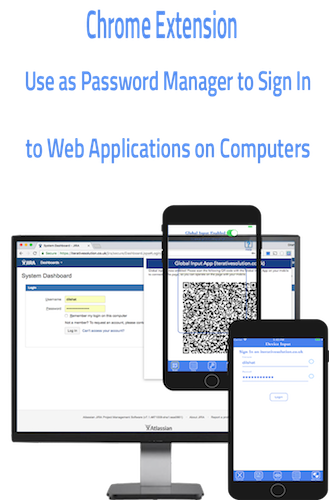
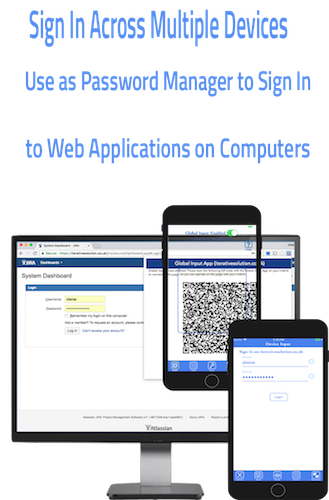
releasing

Changed region(s): [[0.0912, 0.0, 0.8815, 0.09]]

diff --git a/src/home/HomeScreen.js b/src/home/HomeScreen.js
@@ -124,6 +124,13 @@ render() {
                    buttonLabel={applicationPathConfig.formData.startButton} buttonLink={applicationPathConfig.formData.menu.link}/>
           </div>
 
+          <BookMark bookmark={applicationPathConfig.chrome.menu.bookmark}/>
+
+          <div style={styles.itemSection}>
+                <DisplayTextImage title={blockTextConfig.chrome.title}
+                   content={blockTextConfig.chrome.content} image={images.chromeExtension}
+                   mobileImage={images.mobile.chromeExtension}/>
+          </div>
 
 
 
@@ -131,31 +138,28 @@ render() {
 
 
 
-              <BookMark bookmark={applicationPathConfig.contentTransfer.menu.bookmark}/>
 
-              <div style={styles.itemSection}>
-                    <DisplayTextImage title={applicationPathConfig.contentTransfer.title}
-                       content={applicationPathConfig.contentTransfer.content} image={images.contentTransfer}
-                       mobileImage={images.mobile.contentTransfer}
-                       buttonLabel={applicationPathConfig.contentTransfer.startButton} buttonLink={applicationPathConfig.contentTransfer.menu.link}/>
-              </div>
+          <BookMark bookmark={applicationPathConfig.contentTransfer.menu.bookmark}/>
+
+          <div style={styles.itemSection}>
+                <DisplayTextImage title={applicationPathConfig.contentTransfer.title}
+
+                   content={applicationPathConfig.contentTransfer.content} image={images.contentTransfer}
+                   mobileImage={images.mobile.contentTransfer}
+                   buttonLabel={applicationPathConfig.contentTransfer.startButton} buttonLink={applicationPathConfig.contentTransfer.menu.link}/>
+          </div>
+
 
 
               <BookMark bookmark={applicationPathConfig.qrPrinting.menu.bookmark}/>
 
               <div style={styles.itemSection}>
-                    <DisplayTextImage title={applicationPathConfig.qrPrinting.title} reverse={true}
+                    <DisplayTextImage title={applicationPathConfig.qrPrinting.title}
                        content={applicationPathConfig.qrPrinting.content} image={images.encryptedQRCode}
                        mobileImage={images.mobile.encryptedQRCode}
+                       reverse={true}
                        buttonLabel={applicationPathConfig.qrPrinting.startButton} buttonLink={applicationPathConfig.qrPrinting.menu.link}/>
-              </div>
 
-              <BookMark bookmark={applicationPathConfig.chrome.menu.bookmark}/>
-
-              <div style={styles.itemSection}>
-                    <DisplayTextImage title={blockTextConfig.chrome.title}
-                       content={blockTextConfig.chrome.content} image={images.chromeExtension}
-                       mobileImage={images.mobile.chromeExtension}/>
               </div>
 
 

diff --git a/src/page-templates/configs/chromeExtensionConfig.js b/src/page-templates/configs/chromeExtensionConfig.js
@@ -1,13 +1,14 @@
 import {pagelinks} from "../../configs";
 const chromeExtensionConfig={
-  title:"Global Input Extensions",
+  title:"Sign In Across Multiple Devices",
   menu:{
      bookmark:"chromeExtension"
    },
-   content:["Global Input App allows you to use your mobile as a sign-in device with its encrypted storage and encrypted data transfer.",
-    [["You can use the the ",{type:"link", content:"Global Input JavaScript library",link:pagelinks.jslibrary.url()}, " to extend your existing web application to support Global Input App."]],
-    [["You can install the ",{type:"a", content:"Global Input WordPress Plugin ", href:"https://github.com/global-input/wordpress-login"}, " into your WordPress instance to enable your website to support Global Input App"]],
-     [["If the web application, or the website that you are visiting does not yet has the Global Input App extension, you can install the ",{type:"a",content:"Global Input Chrome Extension",href:"https://github.com/global-input/chrome-extension"}," to the Chrome browser on your computer. The extension acts as a go-between in receiving the data from your Global Input App and filling the form in the web pages."]]
+   content:["Global Input App can act as a Password Manager on your personal mobile device for signing into the web applications with Global Input App extensions.",
+           "Credentials are stored encrypted in your device’s storage only, and decrypted only when it is needed and pushed to the connected application using end-to-end encryption.",
+           [["You can install the ",{type:"a", content:"Global Input WordPress Plugin ", href:"https://github.com/global-input/wordpress-login"}, " into your WordPress instance to enable your website to support Global Input App"]],
+           [["If the web application, or the website that you are visiting does not yet has the Global Input App extension, you can install the ",{type:"a",content:"Global Input Chrome Extension",href:"https://github.com/global-input/chrome-extension"}," to the Chrome browser on your computer. The extension acts as a go-between in receiving the data from your Global Input App and filling the form in the web pages."]],
+           ["The web applications can be extended to support Global Input App using the ",{type:"link", content:"Global Input JavaScript library",link:pagelinks.jslibrary.url()}],
  ],
     install:{
                link:"https://github.com/global-input/chrome-extension",

diff --git a/src/page-templates/configs/formDataTransferConfig.js b/src/page-templates/configs/formDataTransferConfig.js
@@ -1,6 +1,6 @@
 import {pagelinks} from "../../configs";
 const formDataTransferConfig={
-  title:"Sign In Across Multiple Devices",
+  title:"Encrypted Data Storage and Encrypted Transfer",
   appSubtitle:"Form Data Transfer",
   menu:{
      link:pagelinks.samples.formData.link,
@@ -8,11 +8,10 @@ const formDataTransferConfig={
      backLink:pagelinks.samples.formData.backLink,
      bookmark:pagelinks.samples.formData.bookmark,
   },
-  content:["Global Input App can act as a Password Manager on your personal mobile device for signing into the web applications with Global Input App extensions.",
-          "Credentials are stored encrypted in your device’s storage only, and decrypted only when it is needed and pushed to the connected application using end-to-end encryption.",
-          "Global Input allows to login securely to a web application on a shared computer that is attached to a shared screen in a conference room."],
-
-
+  content:[
+           "Global Input App implements an encrypted storage in your device and data transfer between your devices using end-to-end encryption.",
+           "This can be a useful tool for IT support team. A Global Input App instance can establish an encrypted communication with another instance, and then a data item can be created/edited collaboratively using both devices.",
+           "Here you can compose a form that you would like a user to use his/her mobile to fill in the form with you colloboratively and save it on his/her mobile for later use. On your end, you can use the form data to carry out operations such as user account creation etc."],
 
 
    compose:{
@@ -71,7 +70,7 @@ const formDataTransferConfig={
     startButton:"Try It",
     cancelButton:"Back",
     backButton:"Back",
-    restartButton:"Restart",
+    restartButton:"Back",
     finishButton:"Finish",
     nextButton:"Next",
     backButton:"Back",
@@ -80,6 +79,7 @@ const formDataTransferConfig={
     unselectButton:"Unselect",
     deleteButton:"Delete",
     copyButton:"Copy",
-    backButton:"Back"
+    backButton:"Back",
+    cloneButton:"Clone This Page As Bookmarkable"
 }
 export default formDataTransferConfig;

diff --git a/src/formdata-transfer/FormDataTransfer.js b/src/formdata-transfer/FormDataTransfer.js
@@ -618,10 +618,12 @@ renderComposeForm(){
                               help={applicationPathConfig.formData.compose.folder.help}/>
 
                               <DisplayStaticContent
-                              content={applicationPathConfig.formData.compose.fields.header}/>
-
+                              content={applicationPathConfig.formData.compose.fields.header}
+                              lineStyle={styles.help}/>
+                            <div style={styles.fieldRow}>
 
                             {fields.map((formField, index)=>this.renderAField(formField,index))}
+                          </div>
                     </div>
 
               </div>
@@ -664,7 +666,7 @@ displayBookmarkableLink(){
 
     var url=pagelinks.samples.formData.buildURL({formData})
     return(
-        <a href={url}  target="_blank">Load As BookMarkable</a>
+        <a href={url}  target="_blank">{applicationPathConfig.formData.cloneButton}</a>
     );
 }
 
@@ -700,7 +702,8 @@ renderAddNewField(){
                   <InputWithLabel fieldId="newfieldid"
                       onChange={this.setNewFieldLabel.bind(this)}
                       value={newFieldLabel}
-                      label={applicationPathConfig.formData.newField.fieldLabel}/>
+                      label={applicationPathConfig.formData.newField.fieldLabel}
+                      onKeyEnter={this.addNewField.bind(this)}/>
                 </div>
 
 

diff --git a/src/components/input/InputWithLabel.js b/src/components/input/InputWithLabel.js
@@ -11,7 +11,11 @@ export default class InputWithLabel extends Component{
                    max={this.props.max}
                    step={this.props.step}
                    readOnly={this.props.readOnly}
-
+                   onKeyUp={evt=>{
+                     if(this.props.onKeyEnter && evt && evt.keyCode===13){
+                        this.props.onKeyEnter();
+                     }
+                   }}
                    onChange={(evt) => {
                      this.props.onChange(evt.target.value,this.props.fieldIndex);
                  }} value={this.props.value} required/>

diff --git a/src/page-templates/configs/contentTransferConfig.js b/src/page-templates/configs/contentTransferConfig.js
@@ -6,7 +6,7 @@ const contentTransferConfig={
       backLink:pagelinks.samples.contentTransfer.backLink,
       bookmark:pagelinks.samples.contentTransfer.bookmark
     },
-    title:"Encrypted Content Storage & Transfer",
+    title:"Copy And Paste Content Securely Between Devices",
     appSubtitle:"Content Transfer",
     content:[
              "Global Input App implements an encrypted storage in your device and data transfer between your devices using end-to-end encryption.",
